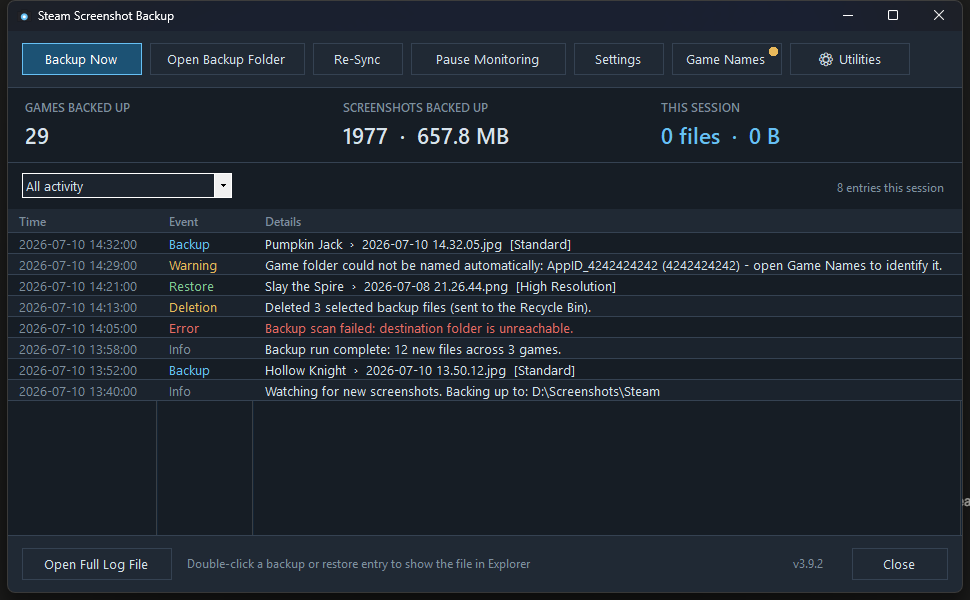
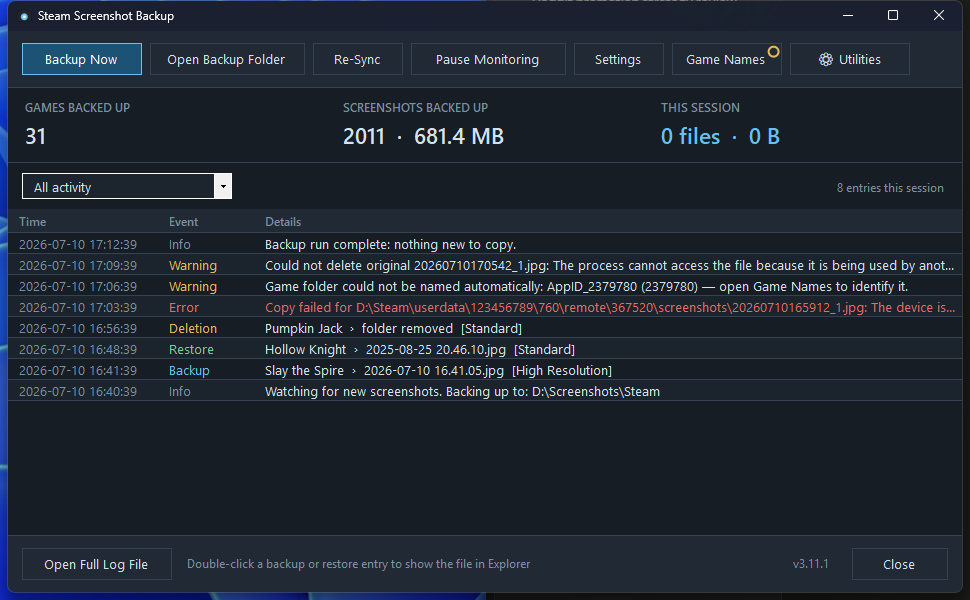
v3.11.1: fix activity log divider artifact, dark ComboBox rendering, and badge style
The activity log's ListView, themed via SetWindowTheme for dark scrollbars,
kept drawing the native header's column divider lines through the empty
space below the last row. Added FlatListView (Theme.cs) which erases that
strip after the native control paints, used in both MainWindow and
PreviewWindow.

Fixed the filter combobox rendering with the native light theme instead of
dark: SettingsWindow.cs called Theme.ApplyComboBoxTheme, a name that never
matched the actual implemented method (Theme.StyleComboBox), so it silently
never ran.

Changed the Game Names unresolved-game badge from a filled dot to a
hollow ring in the same warning color.

Regenerated docs/img/main-window.png for the current UI.

diff --git a/app/Theme.cs b/app/Theme.cs
@@ -86,6 +86,26 @@ namespace SteamScreenshotBackup
             c.Disposed += (s, e) => Changed -= Apply;
         }
 
+        // A DropDownList-style ComboBox's closed display area ignores BackColor/ForeColor
+        // entirely (comctl32 theme-draws it) - SetWindowTheme's "DarkMode_*" pseudo-themes
+        // don't reliably take effect without the rest of the undocumented dark-mode API set,
+        // so the only robust fix is to own the painting: OwnerDrawFixed covers the closed
+        // display and every dropdown row: FlatStyle.Flat still supplies the border/arrow.
+        public static void StyleComboBox(ComboBox c)
+        {
+            c.DrawMode = DrawMode.OwnerDrawFixed;
+            c.DrawItem += (s, e) =>
+            {
+                if (e.Index < 0) return;
+                bool selected = (e.State & DrawItemState.Selected) != 0;
+                Color bg = selected ? Selection : (c.BackColor);
+                using (var b = new SolidBrush(bg)) e.Graphics.FillRectangle(b, e.Bounds);
+                var r = new Rectangle(e.Bounds.X + 6, e.Bounds.Y, e.Bounds.Width - 6, e.Bounds.Height);
+                TextRenderer.DrawText(e.Graphics, c.Items[e.Index].ToString(), c.Font, r, Text,
+                    TextFormatFlags.Left | TextFormatFlags.VerticalCenter);
+            };
+        }
+
         // DataGridView's scroll bars aren't part of its own window like a native
         // ListView/TreeView's are \u2014 they're separate HScrollBar/VScrollBar child
         // controls with their own handles, so ApplyScrollbars (which themes the
@@ -231,6 +251,35 @@ namespace SteamScreenshotBackup
         {
             using var bmp = DrawCamera(32);
             return Icon.FromHandle(bmp.GetHicon());
+        }
+    }
+
+    // A Details-view ListView themed via Theme.ApplyScrollbars (SetWindowTheme
+    // "Explorer"/"DarkMode_Explorer") keeps drawing the native header's column
+    // divider lines all the way down through the empty space below the last
+    // row, the same guide lines Explorer itself shows in an under-full file
+    // list. Owner-draw notifications only cover items/subitems, not that empty
+    // tail, so the only way to erase them is to paint over that area ourselves
+    // right after the native control finishes its own WM_PAINT.
+    internal sealed class FlatListView : ListView
+    {
+        private const int WM_PAINT = 0x000F;
+
+        protected override void WndProc(ref Message m)
+        {
+            base.WndProc(ref m);
+            if (m.Msg == WM_PAINT) PaintOverEmptyArea();
+        }
+
+        private void PaintOverEmptyArea()
+        {
+            if (!IsHandleCreated || View != View.Details || Items.Count == 0) return;
+            int top = Items[Items.Count - 1].Bounds.Bottom;
+            int height = ClientSize.Height - top;
+            if (height <= 0) return;
+            using var g = Graphics.FromHwnd(Handle);
+            using var b = new SolidBrush(Theme.Background);
+            g.FillRectangle(b, 0, top, ClientSize.Width, height);
         }
     }
 }

diff --git a/app/MainWindow.cs b/app/MainWindow.cs
@@ -1,6 +1,7 @@
 using System;
 using System.Diagnostics;
 using System.Drawing;
+using System.Drawing.Drawing2D;
 using System.IO;
 using System.Threading.Tasks;
 using System.Windows.Forms;
@@ -14,7 +15,7 @@ namespace SteamScreenshotBackup
         private static MainWindow _open;
 
         private readonly TrayContext _app;
-        private readonly ListView _list;
+        private readonly FlatListView _list;
         private readonly ComboBox _filter;
         private readonly Label _count;
         private readonly Label _empty;
@@ -119,6 +120,7 @@ namespace SteamScreenshotBackup
             _filter.Items.AddRange(new object[]
                 { "All activity", "Backups", "Restores", "Deletions", "Warnings and errors", "Info" });
             _filter.SelectedIndex = 0;
+            Theme.StyleComboBox(_filter);
             _filter.SelectedIndexChanged += (s, e) => Reload();
             filterRow.Controls.Add(_filter);
 
@@ -168,7 +170,7 @@ namespace SteamScreenshotBackup
             _bottom.Controls.Add(version);
 
             // ----- activity list -----
-            _list = new ListView
+            _list = new FlatListView
             {
                 Dock = DockStyle.Fill,
                 View = View.Details,
@@ -457,10 +459,9 @@ namespace SteamScreenshotBackup
             if (_unresolvedCount <= 0) return;
             const int d = 10;
             var rect = new Rectangle(_namesBtn.Width - d - 4, 3, d, d);
-            using (var fill = new SolidBrush(Theme.Warning))
-                e.Graphics.FillEllipse(fill, rect);
-            using (var border = new Pen(Theme.Panel, 1.5f))
-                e.Graphics.DrawEllipse(border, rect);
+            e.Graphics.SmoothingMode = SmoothingMode.AntiAlias;
+            using var ring = new Pen(Theme.Warning, 2f);
+            e.Graphics.DrawEllipse(ring, rect);
         }
 
         internal static string FormatBytes(long b)

diff --git a/app/PreviewWindow.cs b/app/PreviewWindow.cs
@@ -11,7 +11,7 @@ namespace SteamScreenshotBackup
     internal class PreviewWindow : Form
     {
         private readonly IReadOnlyList<(string From, string To)> _rows;
-        private readonly ListView _list;
+        private readonly FlatListView _list;
 
         // Returns true if the user chose Proceed.
         public static bool Confirm(string title, string description,
@@ -46,7 +46,7 @@ namespace SteamScreenshotBackup
             });
             var topEdge = new Panel { Dock = DockStyle.Top, Height = 1, BackColor = Theme.PanelEdge };
 
-            _list = new ListView
+            _list = new FlatListView
             {
                 Dock = DockStyle.Fill,
                 View = View.Details,

diff --git a/app/SettingsWindow.cs b/app/SettingsWindow.cs
@@ -150,6 +150,7 @@ namespace SteamScreenshotBackup
                 Location = new Point(24, y)
             };
             Theme.StyleInput(_theme);
+            Theme.StyleComboBox(_theme);
             _theme.Items.AddRange(new object[] { "Dark", "Light", "Follow Windows setting" });
             _theme.SelectedIndex = _settings.Theme switch
             {
@@ -277,6 +278,7 @@ namespace SteamScreenshotBackup
                 Location = new Point(24, y)
             };
             Theme.StyleInput(_layout);
+            Theme.StyleComboBox(_layout);
             foreach (var p in LayoutPresets) _layout.Items.Add(p.Label);
             int idx = Array.FindIndex(LayoutPresets, p => p.Template == (_settings.FolderTemplate ?? "{game}"));
             _layout.SelectedIndex = idx >= 0 ? idx : 0;